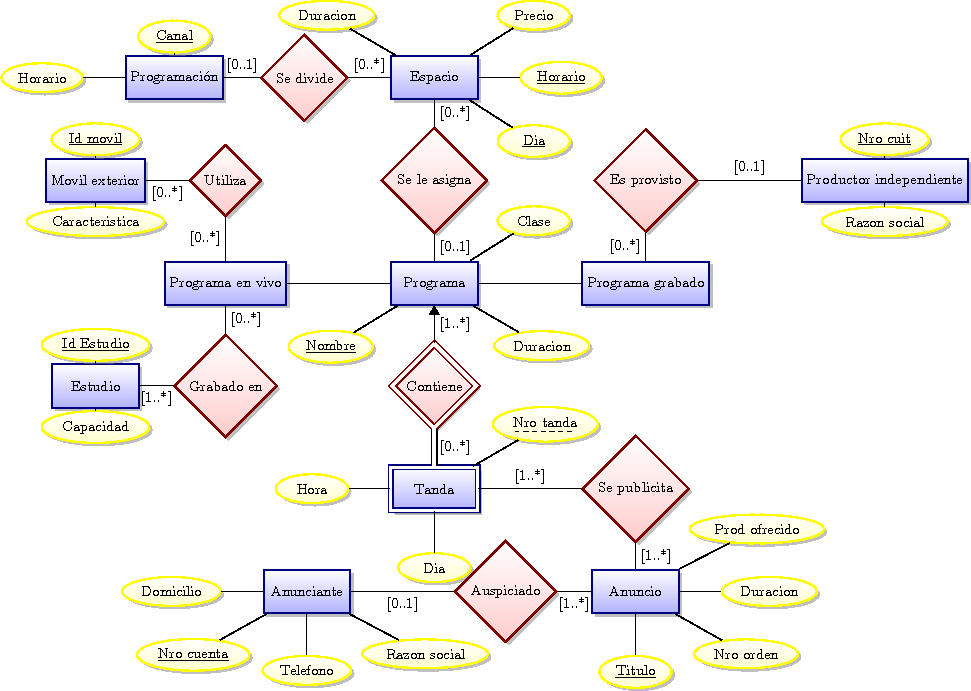
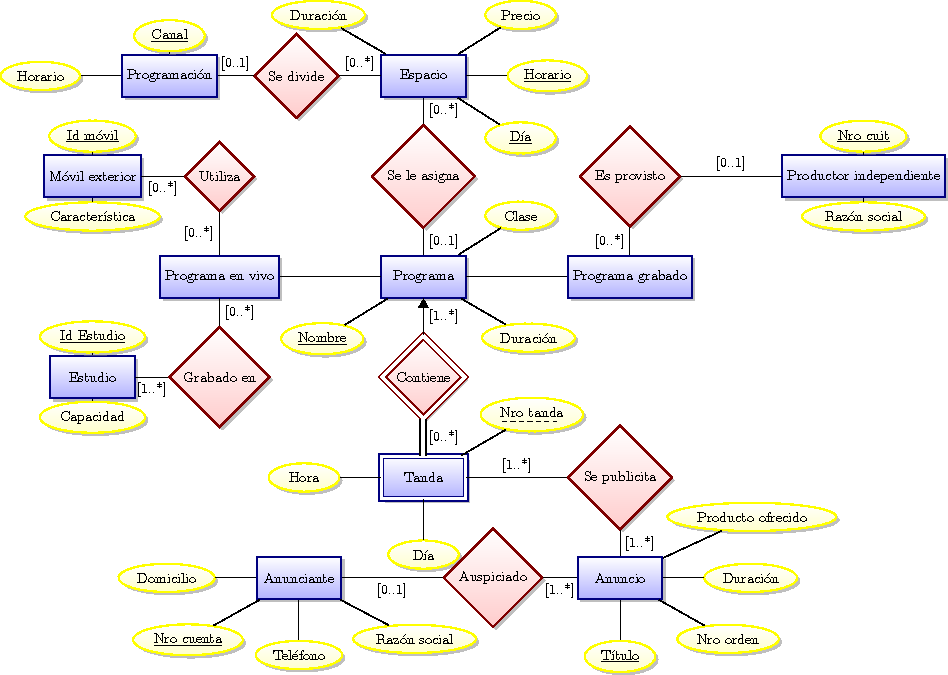
Detalles del diagrama + comiendo de descripcion de entidades

diff --git a/trunk/ModeloE-R/ModeloE-R.tex b/trunk/ModeloE-R/ModeloE-R.tex
@@ -21,7 +21,7 @@
                          draw=green!50!black!100, drop shadow]
 
 \centering
-\scalebox{.87}{
+\scalebox{.85}{
 \begin{tikzpicture}[node distance=2.5cm, every edge/.style={link}]
   \node[entity] (programacion) {Programaci\'on};
   \node[attribute] (horario) [left=of programacion] {Horario} edge (programacion);
@@ -30,8 +30,8 @@
   \node[relationship] (se divide) [right of=programacion, node distance=9em] {Se divide} edge node[auto,swap] {[0..1]} (programacion);
   
   \node[entity] (espacio) [right of=se divide, node distance=9em] {Espacio} edge node[auto,swap] {[0..*]} (se divide);
-  \node[attribute] (duracion) [above left=of espacio] {Duracion} edge (espacio);
-  \node[attribute] (dia) [below right=of espacio] {\key{Dia}} edge (espacio);
+  \node[attribute] (duracion) [above left=of espacio] {Duraci\'on} edge (espacio);
+  \node[attribute] (dia) [below right=of espacio] {\key{D\'ia}} edge (espacio);
   \node[attribute] (hora) [right=of espacio] {\key{Horario}} edge (espacio);
   \node[attribute] (precio) [above right=of espacio] {Precio} edge (espacio);
   
@@ -39,16 +39,16 @@
   
   \node[entity] (programa) [below of=se le asigna] {Programa} edge node[auto,swap] {[0..1]} (se le asigna);
   \node[attribute] (nombre) [below left=of programa] {\key{Nombre}} edge (programa);
-  \node[attribute] (duracion) [below right=of programa] {Duracion} edge (programa);
+  \node[attribute] (duracion) [below right=of programa] {Duraci\'on} edge (programa);
   \node[attribute] (clase) [above right=of programa] {Clase} edge (programa);
   
   \node[entity] (programa en vivo) [left=of programa] {Programa en vivo} edge (programa);
   
   \node[relationship] (utiliza) [above of=programa en vivo] {Utiliza} edge node[auto,swap] {[0..*]} (programa en vivo);
   
-  \node[entity] (movil exterior) [left of=utiliza, node distance=9em] {Movil exterior} edge node[auto,swap] {[0..*]} (utiliza);
-  \node[attribute] (caracteristica) [below of=movil exterior] {Caracteristica} edge (movil exterior);
-  \node[attribute] (id movil) [above of=movil exterior] {\key{Id movil}} edge (movil exterior);
+  \node[entity] (movil exterior) [left of=utiliza, node distance=9em] {M\'ovil exterior} edge node[auto,swap] {[0..*]} (utiliza);
+  \node[attribute] (caracteristica) [below of=movil exterior] {Caracter\'istica} edge (movil exterior);
+  \node[attribute] (id movil) [above of=movil exterior] {\key{Id m\'ovil}} edge (movil exterior);
     
   \node[relationship] (grabado en) [below of=programa en vivo] {Grabado en} edge node[auto,swap] {[0..*]} (programa en vivo);
   
@@ -62,12 +62,12 @@
   
   \node[entity] (productor independiente) [right=of es provisto] {Productor independiente} edge node[auto,swap] {[0..1]} (es provisto);
   \node[attribute] (nro cuit) [above of=productor independiente] {\key{Nro cuit}} edge (productor independiente);
-  \node[attribute] (razon social) [below of=productor independiente] {Razon social} edge (productor independiente);
+  \node[attribute] (razon social) [below of=productor independiente] {Raz\'on social} edge (productor independiente);
   
   \node[ident relationship] (contiene) [below of=programa] {Contiene} edge [->] node[auto,swap] {[1..*]} (programa);
   
   \node[weak entity] (tanda) [below of=contiene] {Tanda} edge [total] node[auto,swap] {[0..*]} (contiene);
-  \node[attribute] (dia) [below =of tanda] {Dia} edge (tanda);
+  \node[attribute] (dia) [below =of tanda] {D\'ia} edge (tanda);
   \node[attribute] (hora) [left =of tanda] {Hora} edge (tanda);
   \node[attribute] (nro tanda) [above right =of tanda] {\discriminator{Nro tanda}} edge (tanda);
     
@@ -75,17 +75,17 @@
   
   \node[entity] (anuncio) [below of=se publicita] {Anuncio} edge node[auto,swap] {[1..*]} (se publicita);
   \node[attribute] (nro orden) [below right=of anuncio] {Nro orden} edge (anuncio);
-  \node[attribute] (prod ofrecido) [above right=of anuncio] {Prod ofrecido} edge (anuncio);
-  \node[attribute] (titulo) [below=of anuncio] {\key{Titulo}} edge (anuncio);
-  \node[attribute] (duracion) [right=of anuncio] {Duracion} edge (anuncio);
+  \node[attribute] (producto ofrecido) [above right=of anuncio] {Producto ofrecido} edge (anuncio);
+  \node[attribute] (titulo) [below=of anuncio] {\key{T\'itulo}} edge (anuncio);
+  \node[attribute] (duracion) [right=of anuncio] {Duraci\'on} edge (anuncio);
    
   \node[relationship] (auspiciado) [left of=anuncio, node distance=9em] {Auspiciado} edge node[auto,swap] {[1..*]} (anuncio);
   
   \node[entity] (anunciante) [left=of auspiciado] {Anunciante} edge node[auto,swap] {[0..1]} (auspiciado);
   \node[attribute] (nro cuenta) [below left=of anunciante] {\key{Nro cuenta}} edge (anunciante);
-  \node[attribute] (razon social) [below right=of anunciante] {Razon social} edge (anunciante);
+  \node[attribute] (razon social) [below right=of anunciante] {Raz\'on social} edge (anunciante);
   \node[attribute] (domicilio) [left=of anunciante] {Domicilio} edge (anunciante);
-  \node[attribute] (telefono) [below=of anunciante] {Telefono} edge (anunciante);
+  \node[attribute] (telefono) [below=of anunciante] {Tel\'efono} edge (anunciante);
 \end{tikzpicture}
 }
 

diff --git a/trunk/InformeALAMBRIN.tex b/trunk/InformeALAMBRIN.tex
@@ -21,14 +21,51 @@
 \tableofcontents
 
 \newpage
-\section{Modelo E-R}
+\section{Modelo Entidad Relaci\'on}
+  \subsection{Diagrama}
   \includegraphics[width=10cm]{ModeloE-R/ModeloE-R.png}
   
   \subsection{Hip\'otesis}
-  \begin{enumerate}
-    \item Cada m\'ovil de exterior posee un id que lo identifica un\'ivocamente. 
-    \item Un programa puede ser en vivo o puede ser grabado.
-  \end{enumerate}
+    \begin{enumerate}
+      \item Cada m\'ovil de exterior posee un id que lo identifica un\'ivocamente. 
+      \item Un programa puede ser en vivo o puede ser grabado.
+    \end{enumerate}
+    
+  \subsection{Diccionario}
+    \subsubsection{Entidades}
+    \begin{flushleft}
+      \begin{large} \bf{Espacio} \end{large}
+    \end{flushleft}
+      \begin{tabular}{| p{2cm} | p{9cm} |}
+	\hline
+	\multicolumn{2}{|l|}{\bf{Descripci\'on:}} \\
+	\hline
+	\multicolumn{2}{|l|}{Un espacio es una divisi\'on del horario de transmisi\'on del canal.} \\
+	\hline	
+	\multicolumn{2}{|l|}{\bf{Especificaci\'on de atributos:}} \\
+	\hline
+	- D\'ia & El d\'ia en el que se emite el espacio. \\
+	\hline \hline
+	- Horario & El horario en el que se emite el espacio. \\
+	\hline \hline
+	- Duraci\'on & La duraci\'on del espacio.\\
+	\hline \hline
+	- Precio & El precio por segundo en el aire del espacio.\\
+	\hline
+	\multicolumn{2}{|l|}{\bf{Especificaci\'on de identificador \'unico:}} \\
+	\hline
+	\multicolumn{2}{|l|}{- D\'ia + Horario} \\
+	\hline
+	\multicolumn{2}{|l|}{Bla bla bla} \\
+	\hline	
+      \end{tabular}
+
+    \begin{flushleft}
+      \begin{large} \bf{Asi con todos........} \end{large}
+    \end{flushleft}
+   
+    \subsubsection{Interrelaciones}
+
 
 \newpage
 \section{Transformaci\'on del Modelo E-R a un Modelo Relacional}
@@ -37,6 +74,6 @@
 \appendix
 \newpage
 \section{Enunciado}
-\includepdf[pages=1-2, scale=0.9, pagecommand={\thispagestyle{plain}}]{EnunciadoBD.pdf}
+\includepdf[pages=1-2, scale=0.8, pagecommand={\thispagestyle{plain}}]{EnunciadoBD.pdf}
 
 \end{document}
